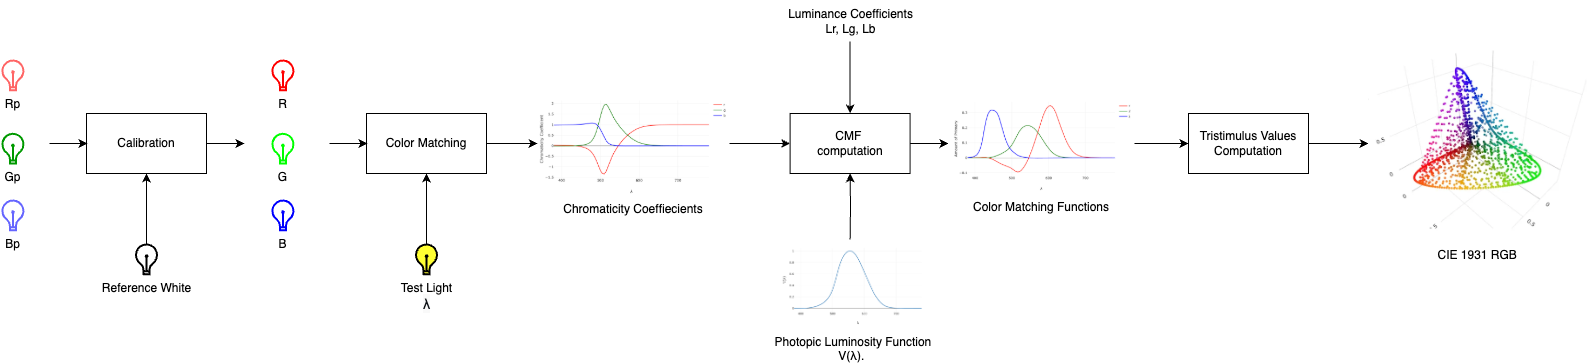
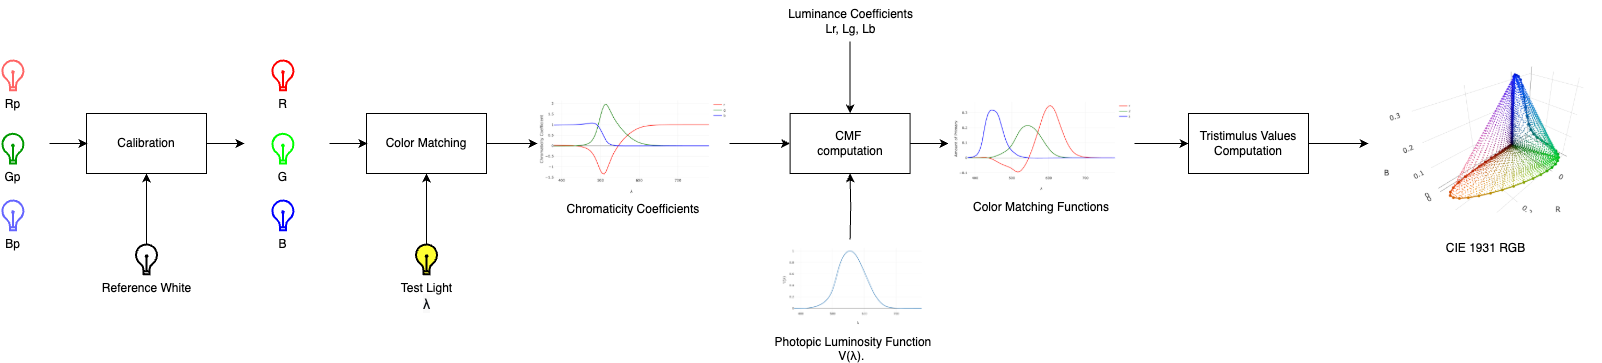
fix style and some formatting issues

diff --git a/js/anim-from3dTo2d.js b/js/anim-from3dTo2d.js
@@ -371,12 +371,18 @@ function createRgbVisualGamutAnimation() {
     return { x: 0, y: 0, z: 0 };
   });
 
-  const scaleFactor = 1/Math.max(Math.max(...CMFDataR.y), Math.max(...CMFDataG.y), Math.max(...CMFDataB.y));
-  
+  const scaleFactor =
+    1 /
+    Math.max(
+      Math.max(...CMFDataR.y),
+      Math.max(...CMFDataG.y),
+      Math.max(...CMFDataB.y)
+    );
+
   for (let i = 0; i < nbSpectralColors; ++i) {
-    spectralPoints[i].x = scaleFactor*CMFDataR.y[i];
-    spectralPoints[i].y = scaleFactor*CMFDataG.y[i];
-    spectralPoints[i].z = scaleFactor*CMFDataB.y[i];
+    spectralPoints[i].x = scaleFactor * CMFDataR.y[i];
+    spectralPoints[i].y = scaleFactor * CMFDataG.y[i];
+    spectralPoints[i].z = scaleFactor * CMFDataB.y[i];
   }
 
   // Create 3d visual gamut with only spectral colors
@@ -394,11 +400,15 @@ function createRgbVisualGamutAnimation() {
   const colorVolumePointsAsString = brightenedColors.map((c) => c.toString());
   const volumePointTrace = {
     type: "scatter3d",
-    mode: "markers",
+    mode: "markers+lines",
     x: xVolumePoints,
     y: yVolumePoints,
     z: zVolumePoints,
     marker: { color: colorVolumePointsAsString, size: 3 },
+    line: {
+      color: colorVolumePointsAsString,
+      width: 4,
+    },
     name: "Spectral colors",
   };
 
@@ -456,12 +466,20 @@ function createRgbVisualGamutAnimation() {
   // Add isochromatic line passing through the origin and the plane
   addIsoLines(graph3Ddiv);
 
+  // Save this initial state
+  let initialState = JSON.parse(JSON.stringify(graph3Ddiv.data));
+  let initialLayout = JSON.parse(JSON.stringify(layout));
+
   // Project points on the plane R+G+B
   buttonPanel
     .append("button")
     .text("1.Project on R+G+B=1")
     .on("click", () => {
-      ProjectOnRgbEq1(graph3Ddiv,  {x:xVolumePoints, y:yVolumePoints, z:zVolumePoints});
+      ProjectOnRgbEq1(graph3Ddiv, {
+        x: xVolumePoints,
+        y: yVolumePoints,
+        z: zVolumePoints,
+      });
     });
 
   // Project points on the plane R+G+B
@@ -480,16 +498,13 @@ function createRgbVisualGamutAnimation() {
       pointCameraOnRGPlane(graph3Ddiv);
     });
 
-    buttonPanel
+  buttonPanel
     .append("button")
     .text("Reset")
     .on("click", () => {
-      const initialData = {
-        x: [xVolumePoints],
-        y: [yVolumePoints],
-        z: [zVolumePoints],
-      }
-      Plotly.restyle(graph3Ddiv, initialData, 0);
+      const initialCopy = JSON.parse(JSON.stringify(initialState));
+      const initialLayoutCopy = JSON.parse(JSON.stringify(initialLayout));
+      Plotly.react(graph3Ddiv, initialCopy, initialLayoutCopy);
     });
 
   // Project points on the plane R-G and move the camera

diff --git a/js/anim-cmf2graph3d.js b/js/anim-cmf2graph3d.js
@@ -517,7 +517,7 @@ function createVisualGamut3dGraph() {
     spectralPoints[i].y = CMFDataG.y[i];
     spectralPoints[i].z = CMFDataB.y[i];
   }
-  const powerFactor = 2.0;
+  const powerFactor = 3.0;
   const volumePoints = lerpPointsBetween(
     spectralPoints,
     ({ x, y, z }) =>
@@ -575,7 +575,6 @@ function addClickAnimation(visualGamut3dDiv, slider, equation) {
   Plotly.addTraces(visualGamut3dDiv, isochromLineTrace);
 
   // Create an invisible trace for the moving point along the isochromatic line
-  const highlightedPointSize = 10;
   const movingPointTrace = {
     type: "scatter3d",
     mode: "markers",
@@ -676,6 +675,44 @@ function addClickAnimation(visualGamut3dDiv, slider, equation) {
   // TODO: double click does not work with scatter3d, so I need a button to reset all the animation
 }
 
+function overlaySpectralLocus(graph3d){
+  const CMFDataR = util.unzipXY(CMFData[0].values);
+  const CMFDataG = util.unzipXY(CMFData[1].values);
+  const CMFDataB = util.unzipXY(CMFData[2].values);
+
+  const powerFactor = 2.0; // for color to appear brighter
+  const pointColors = Array.from({ length: CMFDataR.x.length }, (_, i) => {
+    const RGB = util.cvtLinearRGBtoRGB({
+      R: powerFactor * CMFDataR.y[i],
+      G: powerFactor * CMFDataG.y[i],
+      B: powerFactor * CMFDataB.y[i],
+    });
+    return `rgba(${RGB.R}, ${RGB.G}, ${RGB.B})`;
+  });
+
+  const traceLocus3D = {
+    type: "scatter3d",
+    mode: "markers+lines",
+    x: CMFDataR.y,
+    y: CMFDataG.y,
+    z: CMFDataB.y,
+    marker: {
+      size: 3,
+      color: pointColors,
+    },
+    line: {
+      color: pointColors,
+      width: 4,
+    },
+    showlegend: false,
+    name: "Spectral colors",
+    hoverinfo:"none"
+  };
+
+  Plotly.addTraces(graph3d, traceLocus3D);
+
+}
+
 function createIsochromaticAnimation() {
   // Create the 3d visual gamut with only the envelop
   const visualGamut3dGraph = createVisualGamut3dGraph();
@@ -688,6 +725,8 @@ function createIsochromaticAnimation() {
   });
   const equation = new Equation();
   addClickAnimation(visualGamut3dGraph, slider, equation);
+  overlaySpectralLocus(visualGamut3dGraph);
+ 
 
   const div = document.createElement("div");
   div.appendChild(visualGamut3dGraph);

diff --git a/js/anim-cmf.js b/js/anim-cmf.js
@@ -194,6 +194,7 @@ function createChromCoefToCmfAnimation() {
   const photopicGraph = createPhotopicGraph(GRAPH2D_WIDTH, GRAPH2D_HEIGHT);
   const CmfGraph = createCmfGraph();
   const equations = d3.create("div").style("text-align", "center");
+  equations.style("font-size", "80%");
   equations.append("h3").text("Color Matching Functions Equations");
   const cmfEquations = d3.create("div").html(createCmfEquationContent());
   equations.node().appendChild(cmfEquations.node());

diff --git a/js/anim-rgb2xyz.js b/js/anim-rgb2xyz.js
@@ -387,11 +387,15 @@ function addVisualGamut3d(graph3d) {
     x: spectralRGBArrays.x,
     y: spectralRGBArrays.y,
     z: spectralRGBArrays.z,
-    mode: "markers",
+    mode: "markers+lines",
     marker: {
       size: 3,
       color: spectralRGBArrays.color,
       opacity: 1,
+    },
+    line: {
+      width: 4,
+      color: spectralRGBArrays.color,
     },
     type: "scatter3d",
     name: "Human Visual Gamut",

diff --git a/css/styles.css b/css/styles.css
@@ -49,18 +49,18 @@ img {
 }
 
 .full-width-animation {
-  /* max-width: 700px; */
-  /* margin: 0 auto; */
+  width: 80%;
+  margin: 0 auto;
 }
 
 .sidebar {
   position: fixed;
   top: 20px;
-  right: 0;
+  left: 0;
   font-size: 90%;
   line-height: 1.5;
-  margin-right: 2em;
-  border-left: 1px solid #ccc;
+  margin-left: 1em;
+  border-right: 1px solid #ccc;
   padding: 1em;
   z-index: 1000;
 }

diff --git a/js/anim-spd.js b/js/anim-spd.js
@@ -242,7 +242,9 @@ function createSPDstandardIlluminant() {
     name: "E",
   };
 
-  const layout = {};
+  const layout = {
+    title:"Standard Illuminants SPD"
+  };
   const div = document.createElement("div");
   Plotly.newPlot(
     div,
